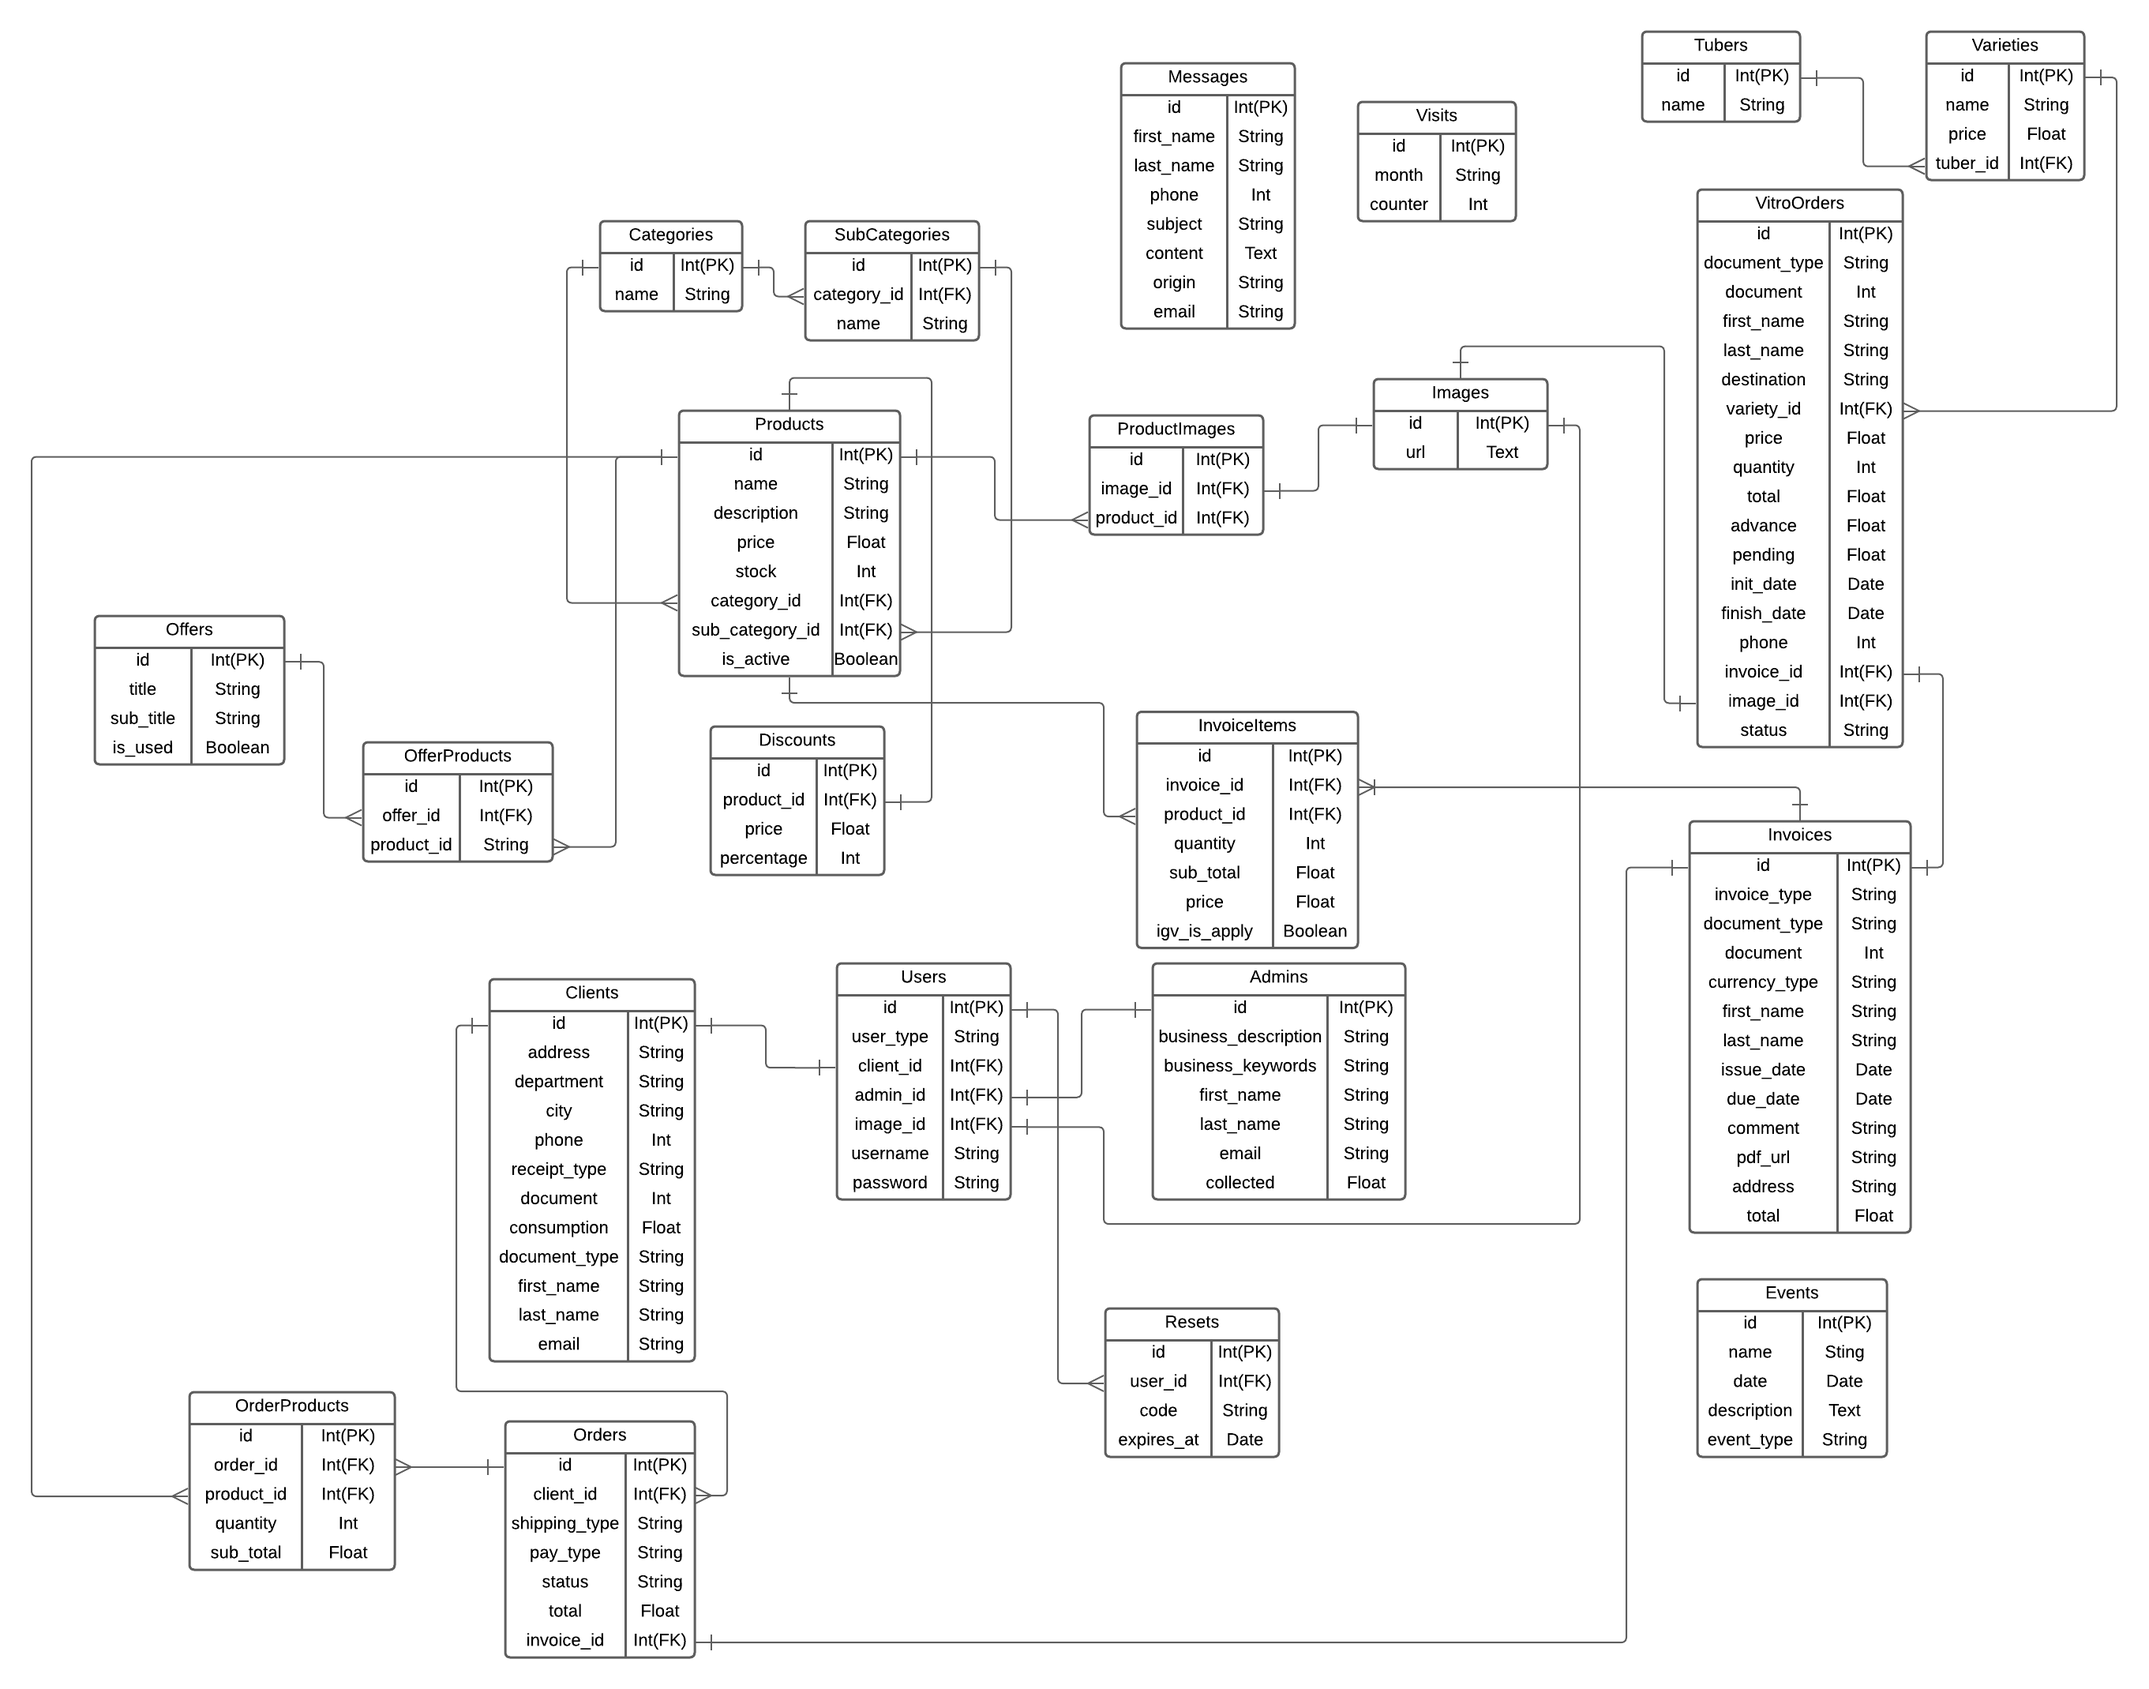
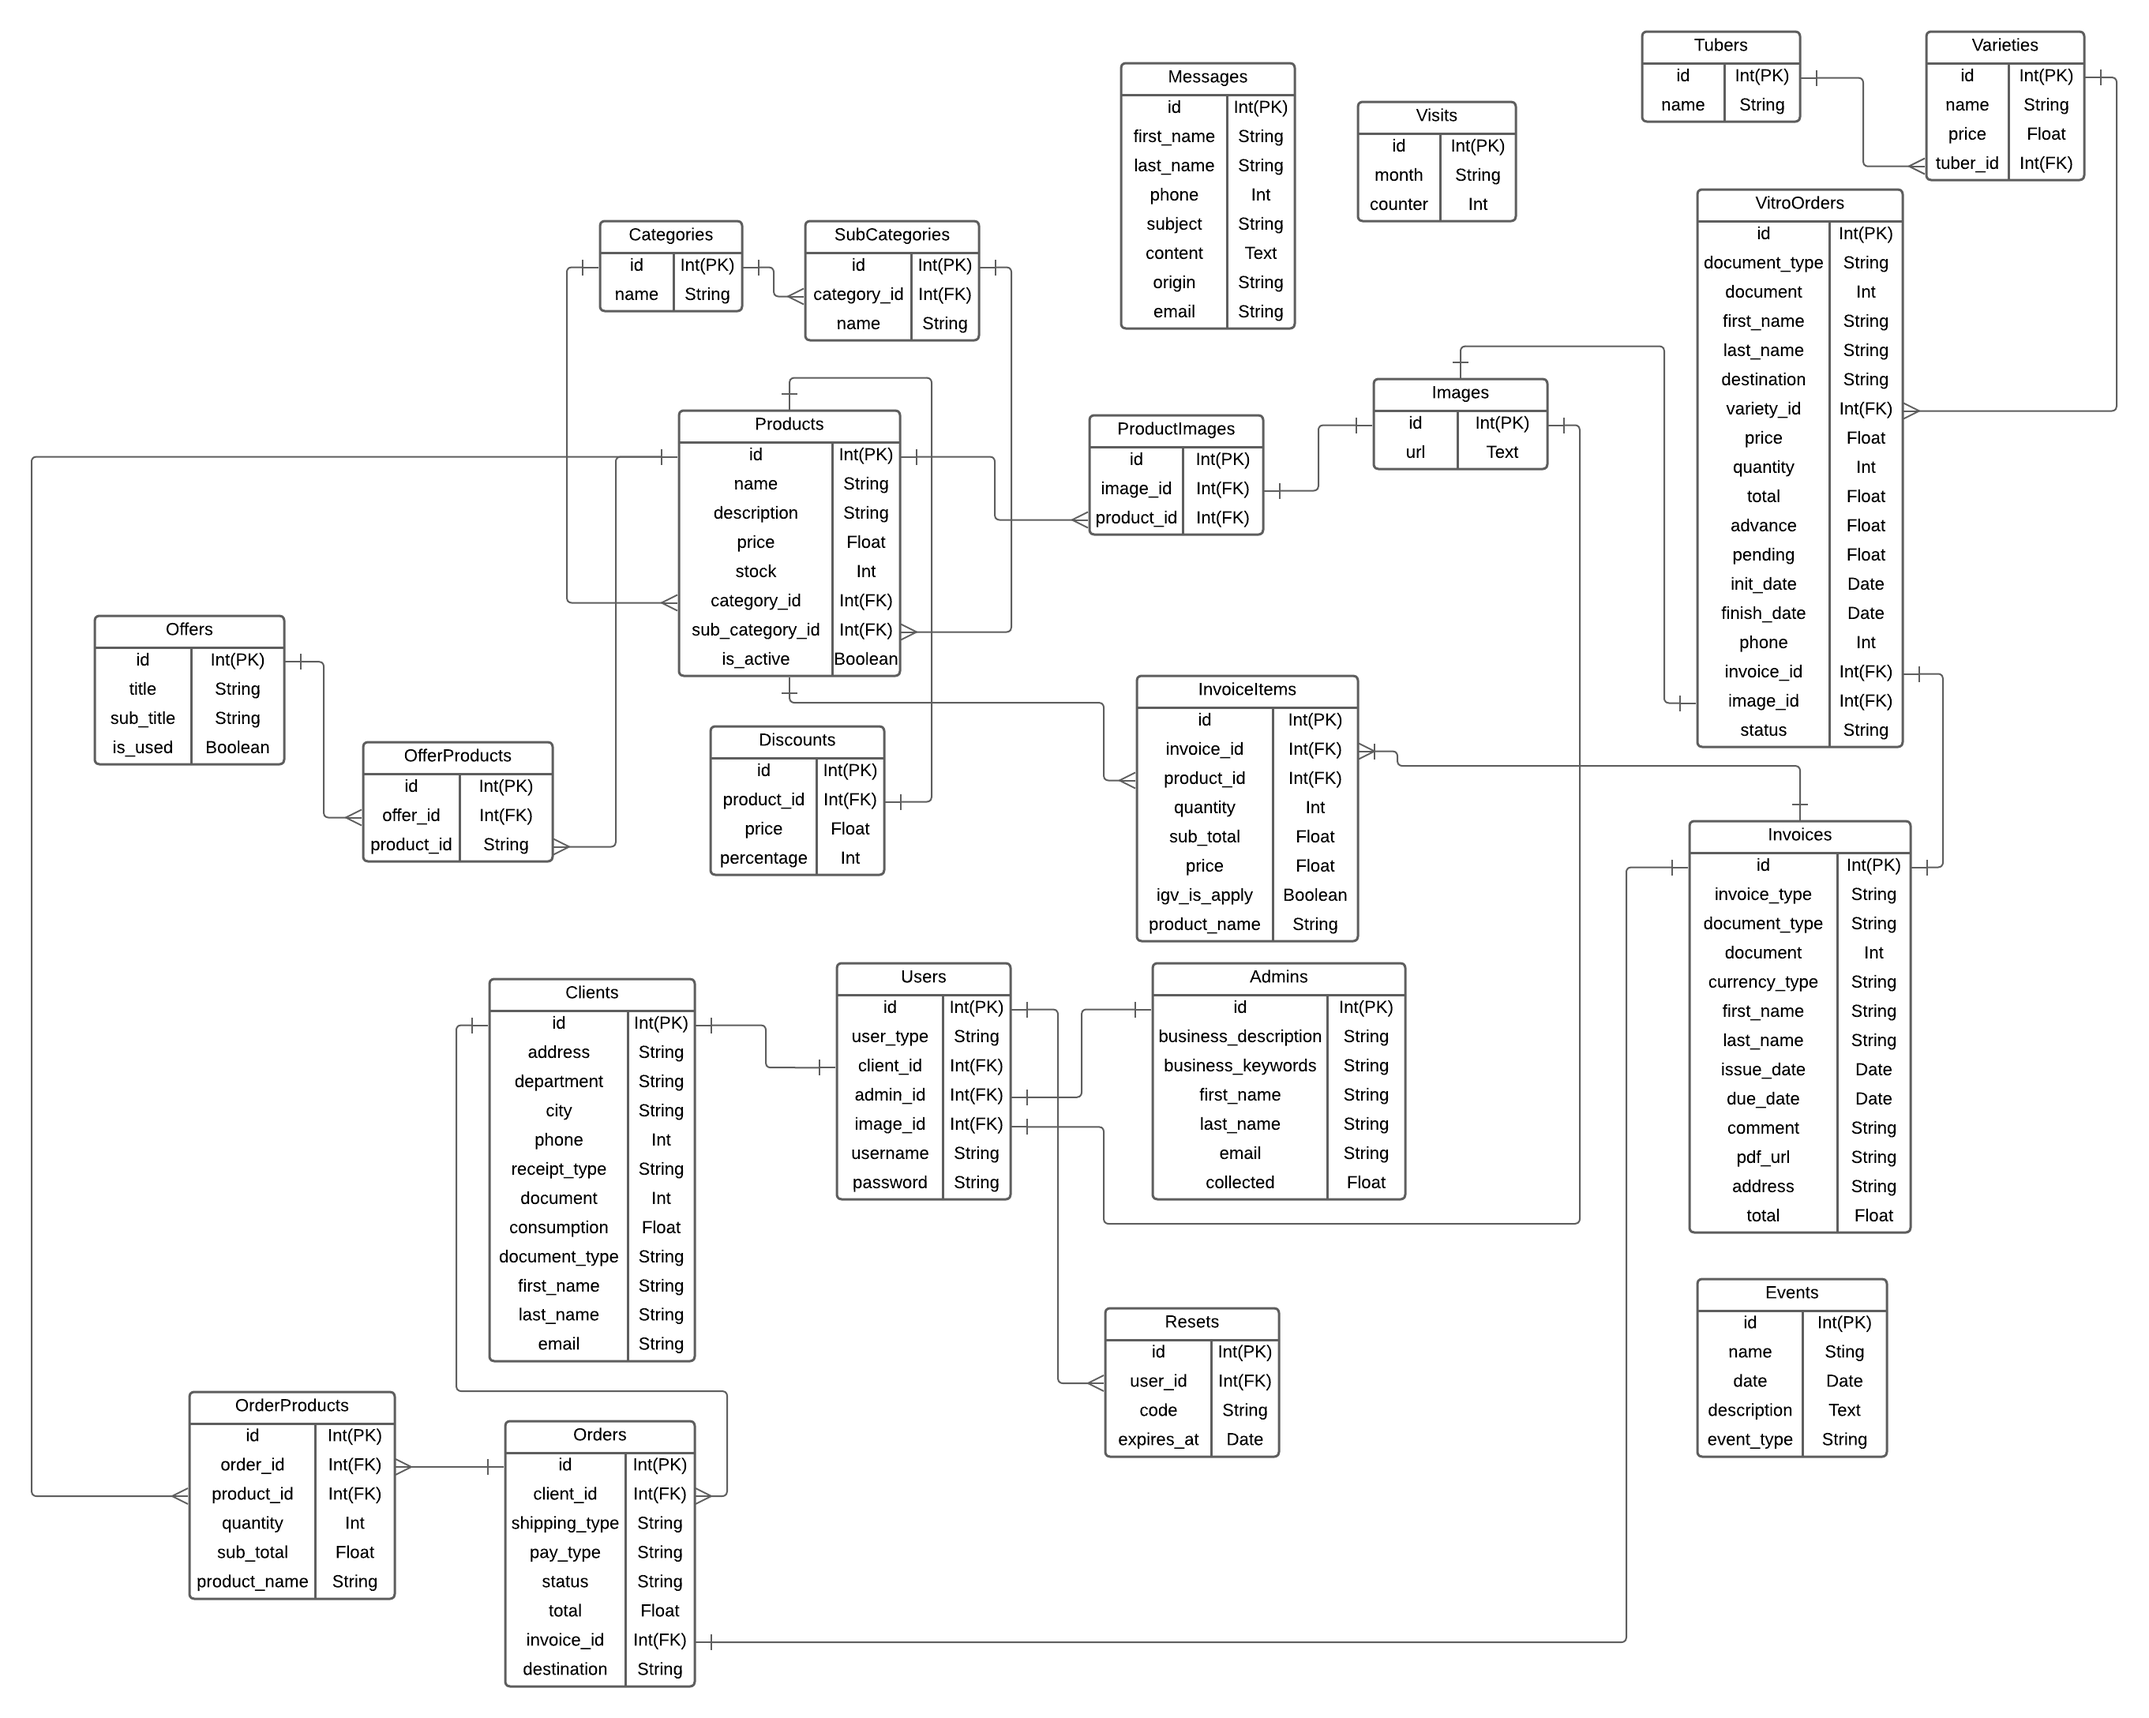
FIX: add destination field on orders table

diff --git a/database/factories/OrderFactory.php b/database/factories/OrderFactory.php
@@ -22,7 +22,8 @@ class OrderFactory extends Factory
       "shipping_type" => $this->faker->randomElement(["express", "normal", "coordinar"]),
       "pay_type" => $this->faker->randomElement(["tarjeta", "deposito"]),
       "status" => $this->faker->randomElement(["pending", "delivered"]),
-      "total" => $this->faker->randomFloat(1, 20, 900)
+      "total" => $this->faker->randomFloat(1, 20, 900),
+      "destination" => $this->faker->city()
     ];
   }
 }

diff --git a/database/migrations/2024_04_02_003105_create_orders_table.php b/database/migrations/2024_04_02_003105_create_orders_table.php
@@ -19,6 +19,7 @@ return new class extends Migration
       $table->string("status")->default("pending");
       $table->float("total")->default(0);
       $table->unsignedBigInteger("invoice_id")->nullable();
+      $table->string("destination");
       $table->timestamps();
 
       $table->foreign("client_id")->references("id")->on("clients");
